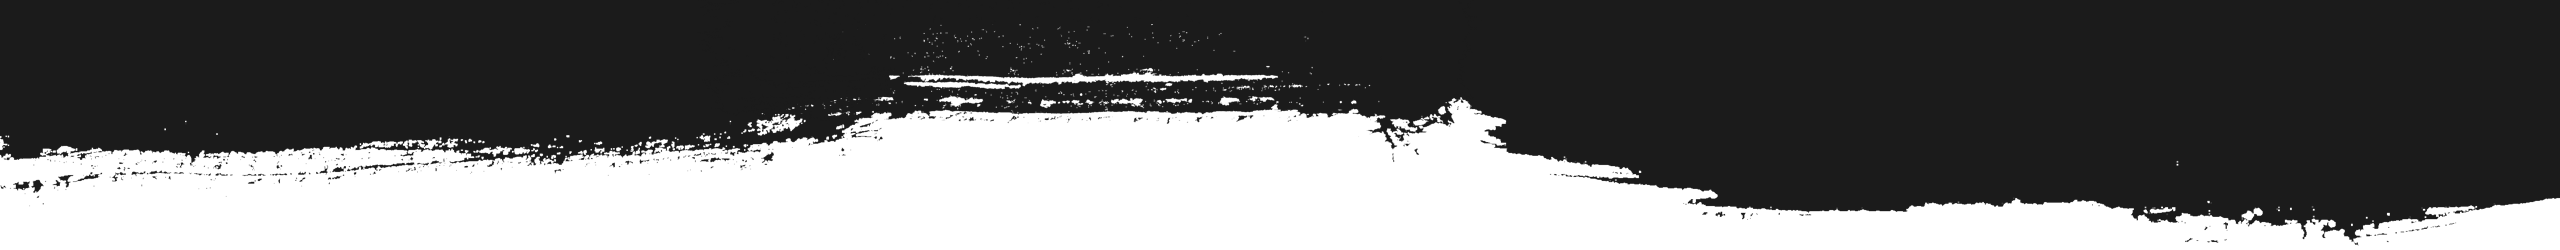
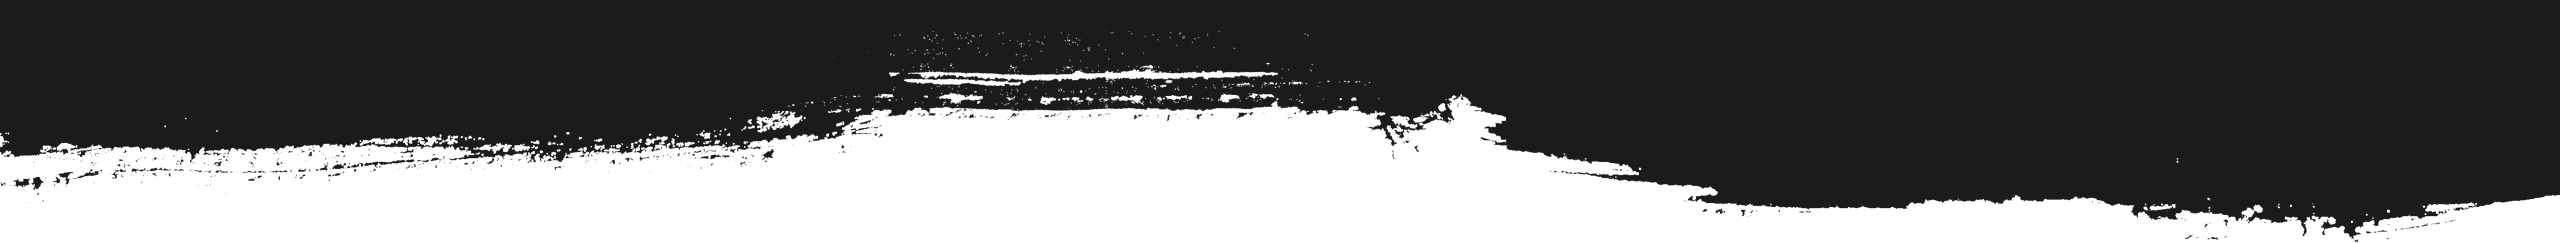
Fix line under border

diff --git a/src/components/modules/Home/MediaKit/styled.ts b/src/components/modules/Home/MediaKit/styled.ts
@@ -4,35 +4,50 @@ import { media } from 'styles/utils';
 import { Border } from 'common/layout';
 
 export const MediaKitContainer = styled.div`
-  padding: 30px 0 60px;
+  padding-bottom: 60px;
   background-color: ${({ theme }) => theme.colors.gray.dark};
   margin-top: -80px;
   text-align: center;
 
   svg {
     margin: 20px 0;
+
+    ${media.mobile`
+      margin-bottom: 40px;
+    `}
+
+    ${media.desktop`
+      margin-top: 0;
+    `}
   }
-
-  ${media.mobile`
-    padding-top: 56px;
-
-    svg {
-      margin: 0 0 40px;
-    }
-  `}
 
   ${media.tablet`
     padding: 100px 0 140px;
-    margin-bottom: -100px
   `}
 `;
 
-export const BorderTop = styled(Border)`
-  margin-top: -150px;
-  transform: translateY(-55%) rotate(180deg);
+export const BorderContainer = styled.div`
+  position: relative;
+  display: flex;
   background-color: ${({ theme }) => theme.colors.gray.light};
+  transform: translateY(-40%);
 
-  ${media.desktop`
-    transform: translateY(-40%) rotate(180deg);
+  ${media.tablet`
+    margin-top: -145px;
   `}
+
+  &:after {
+    content: '';
+    display: block;
+    position: absolute;
+    bottom: -2px;
+    left: 0;
+    width: 100%;
+    height: 4px;
+    background-color: ${({ theme }) => theme.colors.gray.dark};
+  }
+`;
+
+export const BorderTop = styled(Border)`
+  transform: rotate(180deg);
 `;

diff --git a/src/components/common/layout/Footer/styled.ts b/src/components/common/layout/Footer/styled.ts
@@ -6,21 +6,36 @@ import { Container, Border } from 'common/layout';
 export const BorderTop = styled(Border)`
   width: 110%;
   height: auto;
-  margin-top: -25px;
   object-fit: fill;
+  margin-top: -30px;
 
   ${media.tablet`
-    margin-top: 0;
-    margin-bottom: -100px;
+    margin-top: -80px;
+  `}
+
+  ${media.huge`
+    margin-top: -120px;
   `}
 `;
 
 export const FooterContainer = styled.div`
+  position: relative;
+  z-index: 10;
   background-color: ${({ theme }) => theme.colors.black};
   padding-bottom: 50px;
+  margin-top: -10px;
+
+  ${media.mobile`
+    margin-top: -30px;
+  `}
 
   ${media.tablet`
-    padding: 25px 0 75px;
+    margin-top: -50px;
+    padding-bottom: 75px;
+  `}
+
+  ${media.large`
+    margin-top: -100px;
   `}
 `;
 

diff --git a/src/components/modules/Home/Gallery/index.tsx b/src/components/modules/Home/Gallery/index.tsx
@@ -10,7 +10,7 @@ import { GalleryContent } from './content';
 import { mapper } from './mapper';
 import { Category } from './components';
 import {
-  GalleryContainer, ButtonContainer, GalleryItemsContainer, GalleryItem, BottomBorder,
+  GalleryContainer, ButtonContainer, GalleryItemsContainer, GalleryItem, BorderContainer, BottomBorder,
 } from './styled';
 
 export const Gallery: React.FC = () => {
@@ -71,7 +71,9 @@ export const Gallery: React.FC = () => {
           Meet the creators behind Seek
         </Quote>
       </GalleryContainer>
-      <BottomBorder src={BorderBottom} alt="border bottom" />
+      <BorderContainer>
+        <BottomBorder src={BorderBottom} alt="border bottom" />
+      </BorderContainer>
     </>
   );
 };

diff --git a/src/components/modules/Home/Gallery/styled.ts b/src/components/modules/Home/Gallery/styled.ts
@@ -67,17 +67,24 @@ export const GalleryItem = styled.div`
   `}
 `;
 
-export const BottomBorder = styled(Border)`
-  width: 120%;
-  margin-top: -150px;
-  transform: translateY(40%);
+export const BorderContainer = styled.div`
+  position: relative;
+  display: flex;
   background-color: ${({ theme }) => theme.colors.gray.light};
 
-  ${media.mobile`
-    transform: translateY(60%);
-  `}
+  &:after {
+    content: '';
+    display: block;
+    position: absolute;
+    top: -2px;
+    left: 0;
+    width: 100%;
+    height: 4px;
+    background-color: ${({ theme }) => theme.colors.gray.dark};
+  }
+`;
 
-  ${media.huge`
-    transform: translateY(50%);
-  `}
+
+export const BottomBorder = styled(Border)`
+  width: 120%;
 `;

diff --git a/src/components/modules/Home/MediaKit/index.tsx b/src/components/modules/Home/MediaKit/index.tsx
@@ -5,12 +5,14 @@ import AtticBoxLogo from 'vectors/logo.svg';
 import { Container } from 'common/layout';
 import { Heading, Text } from 'common/typography';
 
-import { MediaKitContainer, BorderTop } from './styled';
+import { MediaKitContainer, BorderContainer, BorderTop } from './styled';
 
 export const MediaKit: React.FC = () => {
   return (
     <MediaKitContainer id="media-kit">
-      <BorderTop src={BorderTopImage} alt="border top" />
+      <BorderContainer>
+        <BorderTop src={BorderTopImage} alt="border top" />
+      </BorderContainer>
       <Container align="center">
         <AtticBoxLogo width="88" />
         <Heading as="h2" clickAble>

diff --git a/src/components/modules/Home/Team/components/TeamMember/styled.ts b/src/components/modules/Home/Team/components/TeamMember/styled.ts
@@ -84,7 +84,6 @@ export const ModalCard = styled.div`
 
     ${media.tablet`
       font-size: 25px;
-      margin-top: 60px;
       margin-bottom: 40px;
     `}
   }
@@ -129,8 +128,8 @@ type ModalColumnProps = {
 };
 
 export const ModalClose = styled(CloseSvg)`
-  position: absolute;
-  right: 40px;
+  position: fixed;
+  right: calc(5% - 20px + 40px);
   top: 40px;
   transform: scale(0.75);
   width: 34px;
@@ -138,6 +137,7 @@ export const ModalClose = styled(CloseSvg)`
   z-index: 10;
 
   ${media.tablet`
+    position: absolute;
     right: 60px;
     top: 60px;
     transform: scale(1);

diff --git a/src/components/modules/Home/Team/components/TeamMember/index.tsx b/src/components/modules/Home/Team/components/TeamMember/index.tsx
@@ -45,8 +45,8 @@ export const TeamMember: React.FC<TeamMemberProps> = ({ member }) => {
         disableScrollLock
         variant="card"
       >
-        <ModalClose onClick={() => setOpen(false)} />
         <ModalCard ref={modalScrollRef}>
+          <ModalClose onClick={() => setOpen(false)} />
           <ModalScroll>
             <ModalColumn left>
               <MemberImage

diff --git a/src/styles/index.ts b/src/styles/index.ts
@@ -1,6 +1,7 @@
 import { createGlobalStyle } from 'styled-components';
 
 import theme from './theme';
+import { media } from './utils';
 
 const globalStyle = createGlobalStyle`
   @import url('https://fonts.googleapis.com/css2?family=Crimson+Text:ital,wght@0,400;0,600;0,700;1,400&display=swap');
